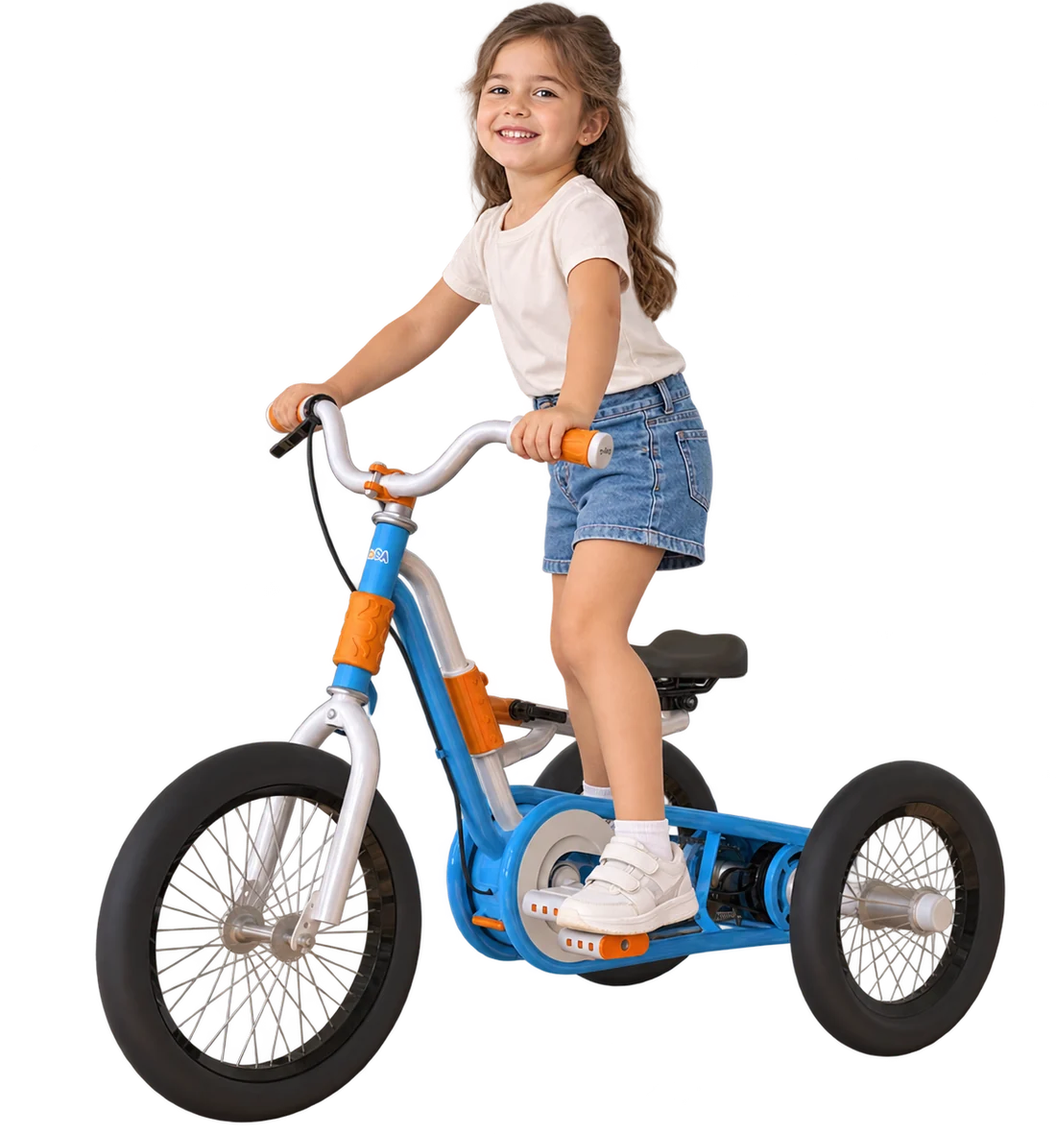
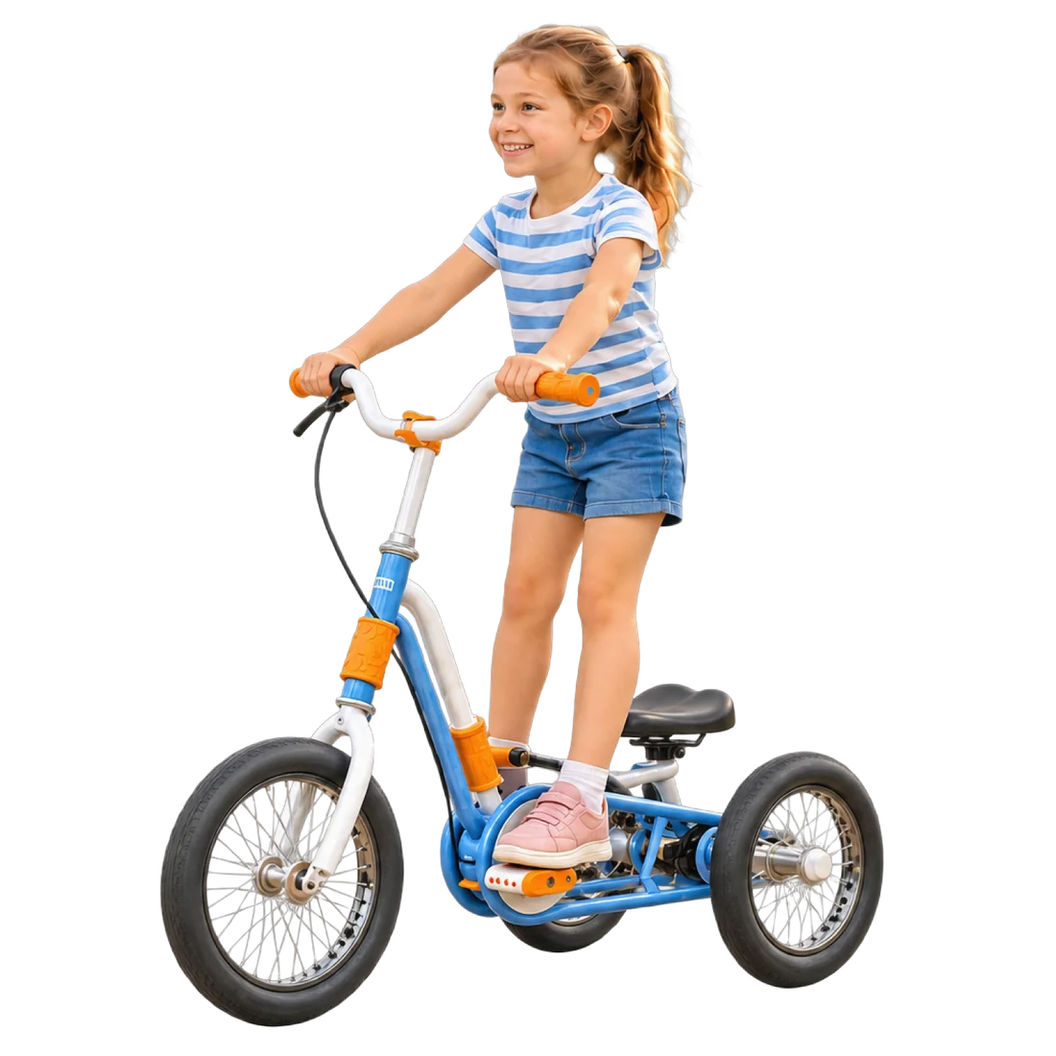
Anexo actualizado: requisitos completos sin estado, proceso por focos, modificaciones completas, sin estabilidad lateral, fotos nuevas
Claude-Session: https://claude.ai/code/session_01XYGLUT23MzxbAn7Qjmz7rA

diff --git a/index.html b/index.html
@@ -100,7 +100,6 @@ header.top{position:sticky;top:0;z-index:20;background:rgba(255,254,248,.92);bac
 .hero-r img{position:absolute;inset:0;width:100%;height:100%;object-fit:contain;filter:drop-shadow(0 14px 18px rgba(75,99,150,.18));opacity:0;transform:scale(.97);transition:opacity .7s,transform .9s cubic-bezier(.6,.05,.3,1);cursor:zoom-in}
 .hero-r img.on{opacity:1;transform:none}
 .hero-r img[data-hm="plegado"]{padding:12% 6%}
-.hero-r img[data-hm="sentado"]{-webkit-mask-image:linear-gradient(90deg,#000 88%,transparent);mask-image:linear-gradient(90deg,#000 88%,transparent)}
 .gal .big img{height:100%;object-fit:cover}
 .vid{position:relative;aspect-ratio:16/9;border-radius:var(--r);overflow:hidden;background:var(--ink);box-shadow:0 10px 30px rgba(75,99,150,.18)}
 .vid iframe{position:absolute;inset:0;width:100%;height:100%;border:0}
@@ -167,10 +166,10 @@ details.acc[open] summary::after{transform:rotate(45deg)}
 details.acc .in{padding:0 0 18px;font-size:15px}
 
 /* Línea de tiempo */
-.tl{display:grid;grid-template-columns:repeat(7,1fr);gap:8px;position:relative}
+.tl{display:grid;grid-template-columns:repeat(8,1fr);gap:8px;position:relative}
 .tl button{border:0;background:#fff;border:1px solid var(--blue-l);border-radius:12px;padding:10px 6px;font-size:13px;color:var(--grey);font-weight:500;transition:all .25s}
 .tl button[aria-pressed="true"]{background:var(--blue);color:#fff;border-color:var(--blue);transform:translateY(-3px)}
-.tlbox{margin-top:14px;min-height:110px}
+.tlbox{margin-top:14px;min-height:150px}
 
 /* Hotspots */
 .hot{position:relative;overflow:hidden;border-radius:var(--r);background:#81b6e0}
@@ -210,6 +209,17 @@ details.acc .in{padding:0 0 18px;font-size:15px}
 .filters{display:flex;gap:8px;flex-wrap:wrap;margin:16px 0}
 .filters button{border:0;border-radius:999px;padding:8px 14px;font-size:13px;font-weight:600;background:var(--tint);color:var(--blue);transition:all .2s}
 .filters button[aria-pressed="true"]{background:var(--blue);color:#fff}
+.reqtools{display:flex;gap:14px;align-items:center;flex-wrap:wrap;margin:18px 0 14px}
+.reqtools input{flex:1;min-width:240px;border:1px solid var(--blue-l);border-radius:999px;padding:10px 18px;font:inherit;font-size:14px;background:#fff;color:var(--ink)}
+.reqtools input:focus{outline:2px solid var(--blue-m);outline-offset:1px}
+.reqgrid{columns:3 300px;column-gap:14px}
+.rq{break-inside:avoid;background:#fff;border:1px solid var(--blue-l);border-radius:var(--r);padding:14px 16px;margin-bottom:14px;animation:enter .35s}
+.rqh{display:flex;gap:10px;align-items:center;margin-bottom:8px}
+.rqh span{display:grid;place-items:center;min-width:28px;height:28px;border-radius:50%;background:var(--blue);color:#fff;font-size:12px;font-weight:600}
+.rqh b{color:var(--blue);font-weight:600}
+.rq ul{list-style:none;margin:0;padding:0;display:grid;gap:8px}
+.rq li{display:grid;grid-template-columns:38px 1fr;gap:6px;font-size:13.5px;line-height:1.5;color:var(--ink)}
+.rq li b{color:var(--yel-d);font-weight:600}
 .req{display:grid;grid-template-columns:76px 1fr 1.3fr 110px;gap:12px;padding:12px 16px;border-top:1px solid #e6ebf7;font-size:14px;align-items:start;background:#fff;animation:enter .35s}
 .reqh{background:var(--blue);color:#fff;font-weight:500;font-size:13px;border-top:0}
 .req b{color:var(--blue);font-weight:600}
@@ -447,13 +457,11 @@ footer a{color:var(--yel-l)}
   
   <div class="sec reveal">
     <div class="eyebrow">Programa de requisitos</div>
-    <h2>24 requisitos y su estado de cumplimiento</h2>
-    <p class="lead">Cada requisito del programa se vincula con la solución de diseño que lo resuelve y con su estado actual.</p>
-    <div class="filters" id="req-f" role="group" aria-label="Filtrar requisitos"></div>
-    <div style="border-radius:var(--r);overflow:hidden;border:1px solid var(--blue-l)">
-      <div class="req reqh"><span>Req.</span><span>Requisito</span><span class="sol">Solución de diseño</span><span>Estado</span></div>
-      <div id="req"></div>
-    </div>
+    <h2>El programa completo: 60 requisitos en 24 categorías</h2>
+    <p class="lead">Los requisitos que definimos a partir de la investigación y que guiaron todas las decisiones del proyecto.</p>
+    <div class="reqtools"><input id="req-q" type="search" placeholder="Buscar un requisito… (ej.: peso, plegado, seguridad)" aria-label="Buscar requisito"><span id="req-n" class="note" style="margin:0"></span></div>
+    <div class="reqgrid" id="req"></div>
+    <div class="card y" style="margin-top:18px"><h4>Conclusión del programa</h4><p>A través de los requisitos establecidos, hemos blindado el proyecto contra la obsolescencia temprana, garantizando una vida útil extendida que contempla la transferencia entre hermanos y la adaptabilidad a hitos psicomotrices clave entre los 3 y 6 años. El recorte propuesto prioriza la autonomía del niño mediante el desafío del equilibrio dinámico, pero sin descuidar la necesidad del adulto por soluciones de estiba compacta, ligereza y maniobrabilidad en contextos utilitarios como los "mandados" o el traslado escolar.</p></div>
   </div>
 </section>
 
@@ -462,12 +470,12 @@ footer a{color:var(--yel-l)}
   <div class="sec">
     <div class="eyebrow">Generación de alternativas</div>
     <h2>Del pata-pata transformable a un vehículo de dos instancias</h2>
-    <p class="lead">Según la teoría del apego, los adultos funcionan como una base segura desde la cual el niño explora, enfrenta nuevos desafíos y desarrolla su autonomía. Esa idea guió la exploración clase a clase.</p>
+    <p class="lead">Según la teoría del apego, los adultos funcionan como una base segura desde la cual el niño explora, enfrenta nuevos desafíos y desarrolla su autonomía. Esa idea guió toda la exploración, organizada según los focos de interés que fuimos abordando.</p>
   </div>
 <div class="sec reveal">
-    <div class="eyebrow">Clase a clase</div>
+    <div class="eyebrow">Focos de interés</div>
     <h2>De los primeros bocetos al producto definido</h2>
-    <div class="tl" style="margin-top:24px" id="tl" role="group" aria-label="Clases del proceso"></div>
+    <div class="tl" style="margin-top:24px" id="tl" role="group" aria-label="Focos del proceso"></div>
     <div class="card tlbox" id="tl-box" aria-live="polite"></div>
     <div class="grid g2" style="margin-top:16px">
       <div class="media" data-slot="bocetos"><div><b>Bocetos y maquetas de estudio</b><span>Espacio reservado para imágenes del proceso</span></div></div>
@@ -506,12 +514,14 @@ footer a{color:var(--yel-l)}
   <div class="sec reveal">
     <div class="eyebrow">Modificaciones</div>
     <h2>Qué cambió después del receso invernal</h2>
-    <details class="acc" open><summary>Sección de los caños estructurales</summary><div class="in">La sección planteada no se conseguía y fabricarla encarecía el proyecto. La ovalada estaba disponible solo en China. Se eligió caño de sección circular, disponible en Argentina, ajustando las dimensiones sin cambiar la macroforma.</div></details>
-    <details class="acc"><summary>Interferencia con la corona</summary><div class="in">La nueva sección redujo el espacio de la transmisión. Una corona más chica obligaba a pedalear más, así que se amplió y reajustó la estructura alrededor de la corona.</div></details>
-    <details class="acc"><summary>Mantenimiento de la transmisión</summary><div class="in">Una pieza metálica soldada delimita la zona y una cubierta plástica con trabas se retira para acceder a la cadena sin desmontar otras partes.</div></details>
-    <details class="acc"><summary>Unión entre perfiles principales</summary><div class="in">La geometría inicial requería varios moldes. Se pasó a caños soldados con piezas que alojan los rodamientos, reduciendo moldes y costos.</div></details>
-    <details class="acc"><summary>Refuerzo del asiento</summary><div class="in">Todo el peso del niño recaía sobre una bisagra. Se sumó un refuerzo curvo que reparte las cargas y se integra al lenguaje formal del producto.</div></details>
-    <details class="acc"><summary>Pedales y ruedas</summary><div class="in">Los pedales extensibles suman un sistema de regulación y traba. Las ruedas pasaron de rodados 10 y 14 a tres rodados 12, más fáciles de conseguir.</div></details>
+    <p class="lead">A la vuelta del receso se profundizó el diseño y se hicieron modificaciones a partir de las correcciones, la investigación y las pruebas, para llegar a una propuesta más definida y viable de materializar.</p>
+    <details class="acc" open><summary>Sección de los caños estructurales</summary><div class="in"><p>Investigamos los caños estructurales estandarizados disponibles en el mercado. La sección planteada originalmente no se conseguía y desarrollar un caño propio implicaba un incremento considerable en los costos, por lo que descartamos esa alternativa.</p><p style="margin-top:8px">Evaluamos una sección ovalada, que mantenía la macroforma y las características estructurales, pero solo se conseguía en China, con mayores costos de producción y logística. Finalmente encontramos caños de sección circular que cumplen los requerimientos estructurales y se consiguen en Argentina.</p><p style="margin-top:8px">La nueva sección implicó ajustar las dimensiones de las piezas sin modificar significativamente la macroforma de la propuesta.</p></div></details>
+    <details class="acc"><summary>Interferencia con la corona</summary><div class="in"><p>La nueva sección de los caños redujo el espacio disponible para la transmisión. Usar una corona más chica modificaba la relación de transmisión y obligaba al niño a pedalear más, así que lo descartamos.</p><p style="margin-top:8px">Decidimos ampliar la estructura y reajustar su geometría alrededor de la corona, manteniendo el sistema de transmisión planteado.</p></div></details>
+    <details class="acc"><summary>Mantenimiento de la transmisión</summary><div class="in"><p>Aprovechamos el cambio para facilitar el acceso a la transmisión. Incorporamos un sistema de dos piezas: una pieza metálica soldada a la estructura inferior que delimita el área de la transmisión, y una cubierta exterior de plástico que se fija con trabas y se retira para hacer mantenimiento.</p></div></details>
+    <details class="acc"><summary>Unión entre perfiles principales</summary><div class="in"><p>La geometría inicial de la unión entre los perfiles era compleja y requería varios moldes, con un incremento considerable en los costos. Estudiamos alternativas y referentes del mercado.</p><p style="margin-top:8px">Avanzamos con caños soldados que incorporan las piezas que alojan los rodamientos: se simplifica la unión, se reducen los moldes y la producción resulta más viable.</p></div></details>
+    <details class="acc"><summary>Asiento</summary><div class="in"><p>La configuración anterior generaba un efecto de pieza flotante atractivo, pero todo el peso del niño recaía sobre una única bisagra.</p><p style="margin-top:8px">Incorporamos una estructura de refuerzo que reparte las tensiones. El desafío fue integrarla a la geometría curva del cuadro: el refuerzo pasó a formar parte del lenguaje formal del producto en lugar de verse como un agregado.</p></div></details>
+    <details class="acc"><summary>Pedales</summary><div class="in"><p>Los pedales extensibles estaban contemplados desde el inicio, pero faltaba resolver cómo regular y asegurar su posición. Se incorporó un sistema de regulación y traba que permite extenderlos y fijarlos en distintas posiciones según el tamaño del pie, evitando desplazamientos durante el uso.</p></div></details>
+    <details class="acc"><summary>Ruedas</summary><div class="in"><p>La propuesta inicial tenía dos ruedas traseras rodado 10 y una delantera rodado 14, medidas difíciles de conseguir. Se pasó a tres ruedas rodado 12, una proporción intermedia que evita cambios significativos en el resto del producto.</p><p style="margin-top:8px">Se ajustaron geometría y proporciones para conservar las condiciones ergonómicas: el alcance del niño a los puntos de apoyo, agarre y contacto se mantiene.</p></div></details>
   </div>
 </section>
 
@@ -593,10 +603,10 @@ footer a{color:var(--yel-l)}
   <div class="sec">
     <div class="eyebrow">Tecnología</div>
     <h2>De una tecnología simple a un producto resistente y escalable</h2>
-    <p class="lead">La estructura se resuelve con caños cilíndricos de aluminio plegados y soldados, un proceso accesible y replicable que no depende de una infraestructura compleja.</p>
+    <p class="lead">La estructura se resuelve con caños cilíndricos de aluminio curvados y soldados, un proceso accesible y replicable que no depende de una infraestructura compleja.</p>
     <div class="grid g4 num" style="margin-top:24px">
       <div class="card"><h4>Aluminio 6061-T6</h4><p>Límite elástico 276 MPa · resistencia 310 MPa · densidad 2,70 g/cm³</p></div>
-      <div class="card"><h4>Plegado de caño</h4><p>Una pieza continua define la geometría con menos cortes y uniones.</p></div>
+      <div class="card"><h4>Curvado de caños</h4><p>Varios tramos del cuadro en una sola pieza, con dispositivos de curvado propios y menos uniones.</p></div>
       <div class="card"><h4>Soldadura TIG</h4><p>Uniones precisas y resistentes con mínima deformación térmica.</p></div>
       <div class="card"><h4>Pintura en polvo</h4><p>Recubrimiento uniforme, resistente al desgaste y a la intemperie.</p></div>
     </div>
@@ -666,31 +676,6 @@ footer a{color:var(--yel-l)}
     <div class="eyebrow">Ficha técnica</div>
     <h2>El producto en números</h2>
     <div class="tbl" style="margin-top:20px"><table><tbody class="num" id="spec"></tbody></table></div>
-  </div>
-  <div class="sec reveal">
-    <div class="eyebrow">Estabilidad lateral</div>
-    <h2>Simulá el ancho y mirá el ángulo de vuelco</h2>
-    <div class="grid g2" style="margin-top:20px;align-items:center">
-      <div class="card w">
-        <label for="w" style="font-weight:500;color:var(--blue)">Ancho total: <span id="w-v" class="num">410 mm</span></label>
-        <input id="w" class="range" type="range" min="360" max="550" step="10" value="410">
-        <div class="meas num" style="margin-top:14px">
-          <div><small>Ángulo crítico ≈</small><b id="w-a"></b></div>
-          <div><small>Aceleración lateral ≈</small><b id="w-g"></b></div>
-          <div><small>Radio mínimo a 7 km/h ≈</small><b id="w-r"></b></div>
-        </div>
-        <p class="note">Modelo estático simplificado: entre ejes ≈ 655 mm, centro de gravedad del conjunto niño + vehículo a ≈ 435 mm de altura y 200 mm delante del eje trasero. El límite del requisito 11.3 es 550 mm.</p>
-      </div>
-      <svg viewBox="0 0 300 220" role="img" aria-label="Esquema del ángulo de vuelco">
-        <line x1="20" y1="190" x2="280" y2="190" stroke="#c9d6f5" stroke-width="3"/>
-        <g id="tilt" style="transition:transform .5s;transform-origin:150px 190px">
-          <rect id="tilt-base" x="90" y="170" width="120" height="14" rx="7" fill="#88a1de"/>
-          <line x1="150" y1="184" x2="150" y2="60" stroke="#4b6396" stroke-width="3" stroke-dasharray="6 5"/>
-          <circle cx="150" cy="60" r="12" fill="#eea72d"/>
-          <text x="166" y="64" font-size="12" fill="#a96d0c">CG</text>
-        </g>
-      </svg>
-    </div>
   </div>
 </section>
 
@@ -906,10 +891,10 @@ function selHS(i,zoom){ if(zoom) hotZoom(i); $$('.hs').forEach((b,j)=>b.classLis
 selHS(0);
 
 /* ---------- Línea de tiempo ---------- */
-const TL=[['Clase 1','Primeros bocetos y conceptos','Exploramos posibilidades de producto, formas de uso y vínculos con el crecimiento del niño.'],['Clase 2','Transformación del producto','Propuestas con mecanismos más complejos; muchas requerían un adulto y limitaban la autonomía del niño.'],['Clase 3','Nuevas modalidades de transporte','Dejamos la idea de transformar un pata-pata en monopatín y abrimos la búsqueda a nuevas tipologías.'],['Clase 4','Dos instancias de uso','Una instancia sentado, similar a un triciclo, y otra parado, cercana a una half bike.'],['Clase 5','Exploración de materialidades','Alternativas en plástico, chapa y madera para evaluar forma, estructura, peso y transformación.'],['Clase 6','Preentrega','Solución ergonómica, adaptable y progresiva; definición estética.'],['Clase 7','Detalles constructivos','Definición de componentes, encuentros y detalles, con mayor coherencia entre concepto y resolución técnica.']];
+const TL=[["Concepto", "Primeros bocetos y conceptos", "A partir de la investigación inicial, comenzamos a desarrollar los primeros bocetos y conceptos. En esta instancia exploramos distintas posibilidades de producto, formas de uso y vínculos con el crecimiento del niño.", []], ["Transformación", "Transformación del producto", "Continuamos explorando alternativas centradas en la transformación del vehículo según la edad del usuario. Aparecieron propuestas con mecanismos más complejos, pero detectamos que muchas requerían la intervención de un adulto, lo que limitaba la autonomía del niño.", ["Fácil transporte", "Adaptabilidad del manubrio"]], ["Tipologías", "Nuevas modalidades de transporte", "Decidimos alejarnos de la idea inicial de transformar un pata-pata en monopatín para abrir la búsqueda a nuevas tipologías. Cada propuesta exploró una modalidad de transporte diferente, manteniendo como eje la adaptación al crecimiento.", ["Equilibrio", "Divertido"]], ["Modos de uso", "Definición de dos instancias de uso", "Identificamos una dirección común: un producto con dos modos principales. Primero, una instancia sentado, similar a un triciclo, para trabajar estabilidad y equilibrio inicial. Luego, una instancia parado, cercana a una half bike, para desarrollar coordinación, postura y control corporal.", ["No varía en forma, solo se extienden las piezas", "Cambio fácil"]], ["Materialidad", "Exploración de materialidades", "Desarrollamos alternativas en distintas materialidades: plástico, metal/chapa y madera. Esta instancia nos permitió evaluar cómo cada material podía modificar la forma, la estructura, el peso y la manera de resolver la transformación del producto.", ["Madera", "Plástico", "Chapa"]], ["Ergonomía", "Solución ergonómica, adaptable y progresiva", "En la preentrega consolidamos una solución ergonómica, adaptable y progresiva, trabajando en paralelo la estética, la adaptabilidad al crecimiento y el traslado del producto.", ["Estética", "Adaptabilidad", "Traslado"]], ["Forma", "Reconfiguración formal", "Se revisó la geometría general del vehículo con el objetivo de transmitir una mayor sensación de ligereza. A través de una simplificación de los volúmenes y una mejor distribución de las masas visuales, se obtuvo una propuesta más dinámica y acorde al universo infantil, sin comprometer la estabilidad estructural.", ["Unificación morfológica", "Agarre y traslado"]], ["Estructura", "Optimización estructural", "Se avanzó en la definición de componentes, encuentros y detalles constructivos, buscando una mayor coherencia entre la propuesta conceptual y su resolución técnica. En esta etapa se estudió el hidroformado de tubos de aluminio, que permite geometrías complejas con menos uniones y una muy buena relación entre rigidez y peso.", ["Componentes", "Encuentros", "Detalles constructivos"]]];
 const tl=$('#tl');
 TL.forEach((t,i)=>{const b=document.createElement('button'); b.textContent=t[0]; b.setAttribute('aria-pressed',i===0); b.addEventListener('click',()=>selTL(i)); tl.appendChild(b);});
-function selTL(i){ $$('#tl button').forEach((b,j)=>b.setAttribute('aria-pressed',j===i)); $('#tl-box').innerHTML=`<h4>${TL[i][1]}</h4><p>${TL[i][2]}</p>`; $('#tl-box').animate([{opacity:.3,transform:'translateY(6px)'},{opacity:1,transform:'none'}],{duration:300}); }
+function selTL(i){ $$('#tl button').forEach((b,j)=>b.setAttribute('aria-pressed',j===i)); $('#tl-box').innerHTML=`<span class="chip y">${TL[i][0]}</span><h4 style="margin-top:10px">${TL[i][1]}</h4><p>${TL[i][2]}</p>${TL[i][3].length?`<div style="display:flex;gap:6px;flex-wrap:wrap;margin-top:10px">${TL[i][3].map(k=>`<span class="chip">${k}</span>`).join('')}</div>`:''}`; $('#tl-box').animate([{opacity:.3,transform:'translateY(6px)'},{opacity:1,transform:'none'}],{duration:300}); }
 selTL(0);
 
 /* ---------- Paleta ---------- */
@@ -918,7 +903,7 @@ $('#sw').innerHTML=SW.map(s=>`<button style="background:${s[0]};color:${s[2]}" d
 $$('#sw button').forEach(b=>b.addEventListener('click',async()=>{try{await navigator.clipboard.writeText(b.dataset.hex); toast('Copiado '+b.dataset.hex);}catch(e){toast(b.dataset.hex);}}));
 
 /* ---------- Proceso ---------- */
-const ST=[['ct','Recepción de caños y control dimensional',null,'Se verifica diámetro, espesor y aleación de cada lote antes de entrar a la línea.'],['op','Corte y perforado de caños','Dispositivo de corte y curvado','Una cinta lleva el caño a la zona de trabajo, donde se fija y se corta y perfora con medidas repetibles.'],['op','Plegado de caños con matriz',null,'Las matrices definen la geometría del cuadro a partir de una pieza continua.'],['op','Mecanizado de radios en los extremos','Dispositivo de radios','Una lijadora genera el radio del extremo del caño para aumentar la superficie de contacto en la unión.'],['op','Posicionado y soldadura TIG del cuadro','Dispositivo de posicionamiento y soldadura','Una plantilla fija la ubicación y orientación de cada caño durante la soldadura.'],['ct','Control de geometría del cuadro',null,'Se verifican ángulos y distancias críticas antes de la terminación.'],['op','Tratamiento térmico posterior a la soldadura',null,'Recomendado para recuperar la resistencia del aluminio junto a los cordones.'],['op','Desbaste, pintura en polvo y curado',null,'Se pulen los cordones y se aplica la pintura electrostática con los colores de la marca.'],['op','Armado del conjunto manubrio','Dispositivo de armado del manubrio','Asegura la alineación entre eje, vástago y tubo del manubrio.'],['op','Ensamble final','Dispositivo de soporte para el ensamble','Mantiene los componentes posicionados mientras se montan ruedas, transmisión y piezas comerciales.'],['ct','Control final',null,'Trabas, frenos, transmisión y plegado.'],['al','Embalaje semi-montado y almacenamiento',null,'Caja individual de cartón corrugado, apilable.']];
+const ST=[['ct','Recepción de caños y control dimensional',null,'Se verifica diámetro, espesor y aleación de cada lote antes de entrar a la línea.'],['op','Corte y perforado de caños','Dispositivo de corte y curvado','Una cinta lleva el caño a la zona de trabajo, donde se fija y se corta y perfora con medidas repetibles.'],['op','Curvado de caños',null,'Se definen inicio, radio y ángulo de cada curva; se controla que no haya pliegues y que la sección quede dentro de tolerancia.'],['op','Mecanizado de radios en los extremos','Dispositivo de radios','Una lijadora genera el radio del extremo del caño para aumentar la superficie de contacto en la unión.'],['op','Posicionado y soldadura TIG del cuadro','Dispositivo de posicionamiento y soldadura','Una plantilla fija la ubicación y orientación de cada caño durante la soldadura.'],['ct','Control de geometría del cuadro',null,'Se verifican ángulos y distancias críticas antes de la terminación.'],['op','Tratamiento térmico posterior a la soldadura',null,'Recomendado para recuperar la resistencia del aluminio junto a los cordones.'],['op','Desbaste, pintura en polvo y curado',null,'Se pulen los cordones y se aplica la pintura electrostática con los colores de la marca.'],['op','Armado del conjunto manubrio','Dispositivo de armado del manubrio','Asegura la alineación entre eje, vástago y tubo del manubrio.'],['op','Ensamble final','Dispositivo de soporte para el ensamble','Mantiene los componentes posicionados mientras se montan ruedas, transmisión y piezas comerciales.'],['ct','Control final',null,'Trabas, frenos, transmisión y plegado.'],['al','Embalaje semi-montado y almacenamiento',null,'Caja individual de cartón corrugado, apilable.']];
 $('#steps').innerHTML=ST.map((s,i)=>`<button class="step" data-i="${i}"><span class="n num">${String(i+1).padStart(2,'0')}</span><span><span class="sym ${s[0]}"></span>${s[1]}</span>${s[2]?'<span class="chip yl">Dispositivo</span>':'<span></span>'}</button>`).join('');
 function selST(i){ $$('.step').forEach((b,j)=>b.classList.toggle('act',j===i)); const s=ST[i]; $('#step-tip').innerHTML=`<span class="chip y">Paso ${i+1} de 12</span><h4 style="margin-top:10px">${s[1]}</h4><p>${s[3]}</p>${s[2]?`<p style="margin-top:8px;font-weight:600;color:var(--yel-d)">${s[2]}</p>`:''}`; }
 $$('.step').forEach(b=>b.addEventListener('click',()=>selST(+b.dataset.i))); selST(1);
@@ -936,22 +921,18 @@ function selCO(i){ const c=CO[i]; $$('#cost button').forEach((b,j)=>b.style.filt
 $$('#cost button').forEach(b=>{b.addEventListener('mouseenter',()=>selCO(+b.dataset.i)); b.addEventListener('click',()=>selCO(+b.dataset.i)); b.addEventListener('focus',()=>selCO(+b.dataset.i));}); selCO(0);
 
 /* ---------- Requisitos ---------- */
-const M=[['1.1','Ergonomía para niños de 3 a 6 años','Asiento en riel, manubrio regulable y pedales extensibles.','V'],['1.2','Transición de equilibrio asistido a autónomo','Modo sentado de tres ruedas y modo de pie.','R'],['1.3','Reconfiguración en menos de 2 minutos','Bisagra con traba y tuerca de ajuste del manubrio.','V'],['1.4','Absorber impactos del suelo','Ruedas rodado 12; falta definir neumático o rueda maciza.','P'],['2.1 / 2.4','Uso en pasto, arena y asfalto','Ruedas con banda de rodamiento para exterior.','V'],['2.2 / 14.2','Resistencia a intemperie y rayos UV','Aluminio con pintura en polvo; polímeros con aditivo UV.','R'],['3.1','Vida útil mínima de 4 años','Cuadro de aluminio soldado TIG y componentes estándar.','V'],['3.2 / 3.3','Piezas de desgaste reemplazables','Asiento, puños, ruedas y cubierta desmontables.','R'],['4.2','Ajustes sin herramientas','Trabas rápidas en asiento, manubrio y pedales.','R'],['4.3','Desarme rápido de ruedas y ejes','Acceso a la transmisión por cubierta; falta el cierre de ejes.','P'],['7.2 / 7.3','Entrar plegado en baúl y ascensor','Plegado: 610 × 688 × 410 mm.','R'],['9.2','Montaje sin errores','Código de color en las piezas de ensamble.','V'],['11.1','Longitud máxima de 1,10 m','965 mm desplegado.','R'],['11.3','Ancho máximo de 55 cm','410 mm.','R'],['12.1','Peso máximo de 10 kg','Estimado ≈ 8,1 a 9,9 kg; margen reducido.','V'],['12.2','Peso concentrado en la base','Transmisión y uniones en la parte baja.','R'],['13.3','Paleta sin estereotipos de género','Azul y naranja con neutros.','R'],['14.1','Materiales reciclables','Aluminio 6061 y termoplásticos identificados.','R'],['14.3','Plásticos libres de ftalatos y BPA','Certificado del proveedor de resinas.','V'],['16.2','Carga estática del doble del peso a los 6 años','Ensayo propuesto con 45 kg.','V'],['17.1','Sin cantos ni zonas de atrapamiento','Cubierta de transmisión; revisar bisagra y riel.','V'],['17.3','Marcas de ajuste por etapa','El prototipo todavía no tiene marcas de altura.','P'],['19.2','Que los mecanismos no se abran durante el uso','La bisagra traba con un clic; verificar que el chico no pueda abrirla.','V'],['22.3','Elementos reflectivos','Reflector trasero en el asiento.','R']];
-const SL={R:['Resuelto','chip b'],V:['A verificar','chip'],P:['Pendiente','chip y']};
-const cn=k=>M.filter(m=>m[3]===k).length;
-$('#req-f').innerHTML=[['all','Todos',M.length],['R','Resueltos',cn('R')],['V','A verificar',cn('V')],['P','Pendientes',cn('P')]].map((f,i)=>`<button aria-pressed="${i===0}" data-f="${f[0]}">${f[1]} · <span class="num">${f[2]}</span></button>`).join('');
-function req(f){ $('#req').innerHTML=M.filter(m=>f==='all'||m[3]===f).map(m=>`<div class="req"><b class="num">${m[0]}</b><span>${m[1]}</span><span class="sol" style="color:var(--grey)">${m[2]}</span><span><span class="${SL[m[3]][1]}">${SL[m[3]][0]}</span></span></div>`).join(''); }
-$$('#req-f button').forEach(b=>b.addEventListener('click',()=>{ $$('#req-f button').forEach(x=>x.setAttribute('aria-pressed',x===b)); req(b.dataset.f); })); req('all');
+const RQ=[[1, "Rendimiento", [["1.1", "El producto debe ser ergonómico para niños de 3 a 6 años."], ["1.2", "Debe permitir la transición de equilibrio asistido a equilibrio autónomo."], ["1.3", "El sistema de reconfiguración debe ser operable por un adulto en menos de 2 minutos."], ["1.4", "El sistema de dirección y rodado debe absorber impactos de irregularidades del suelo (baches) sin transmitir vibraciones excesivas al usuario, respondiendo a la preocupación del 60% de los padres por la estabilidad física."]]], [2, "Entorno", [["2.1", "Uso prioritario en parques y plazas con superficies mixtas (pasto, arena, asfalto)."], ["2.2", "Resistente a la intemperie (rayos UV y humedad) para guardado en patios."], ["2.3", "Los materiales deben ser lavables para eliminar suciedad de entornos exteriores."], ["2.4", "El diseño de las ruedas debe asegurar tracción y maniobrabilidad tanto en superficies lisas de hogar/patio como en terrenos irregulares de parques."]]], [3, "Tiempo de vida", [["3.1", "Vida útil mínima de 4 años para cubrir el rango etario completo del usuario."], ["3.2", "El diseño debe evitar la obsolescencia técnica mediante piezas de desgaste reemplazables."], ["3.3", "El diseño debe permitir el reemplazo independiente de piezas de contacto (asientos, manillares) para facilitar que el producto pase de un hermano a otro en condiciones higiénicas y estéticas óptimas."]]], [4, "Mantenimiento", [["4.1", "Tornillería bajo normas IRAM para facilitar el service local."], ["4.2", "Ajustes de altura y configuración sin necesidad de herramientas externas (mecanismos quick-release)."], ["4.3", "El sistema de limpieza debe permitir el desarme rápido de ruedas y ejes para eliminar obstrucciones (pelos, tierra o fibras) sin necesidad de asistencia técnica especializada."]]], [5, "Precio estimado", [["5.1", "Producto de gama media-alta, justificando el costo por su multifuncionalidad (reemplaza 2 o 3 productos)."], ["5.2", "El precio de venta debe ser competitivo para padres de 35 a 45 años con poder adquisitivo estable."], ["5.3", "El diseño y la calidad de materiales deben proyectar un alto valor de recuperación en el mercado de usados, atrayendo al consumidor que busca inversiones duraderas en un contexto urbano dinámico."]]], [6, "Competencia", [["6.1", "Marcas internacionales de triciclos para infancias."], ["6.2", "Rodados nacionales tradicionales (triciclos estáticos de baja durabilidad)."]]], [7, "Embalaje", [["7.1", "El packaging debe ser compacto para optimizar el transporte logístico."], ["7.2", "El producto plegado debe caber en baúles de autos compactos urbanos."], ["7.3", "El producto plegado debe caber en ascensores estandar de edificios."]]], [8, "Envío/Transporte", [["8.1", "Distribución regional en Argentina vía transporte terrestre."], ["8.2", "Dimensiones de caja estandarizadas para pallets industriales."]]], [9, "Instalación", [["9.1", "El producto se entrega semi-montado para optimizar el embalaje, requiriendo un ensamblaje final intuitivo que no comprometa la seguridad estructural."], ["9.2", "Las piezas de ensamblaje deben tener códigos de color o formas que impidan el montaje erróneo, asegurando la integridad estructural del vehículo antes del primer uso por parte del niño."]]], [10, "Instalaciones de fabricación", [["10.1", "Producción optimizada para procesos de inyección de polímeros y conformado de tubos metálicos."], ["10.2", "El diseño de moldes debe permitir la producción de componentes en diferentes colores sin detener la línea, permitiendo personalización con bajo costo operativo."]]], [11, "Tamaño", [["11.1", "La longitud máxima configurada no debe exceder los 1,10 m para garantizar maniobrabilidad infantil."], ["11.2", "El ancho de manubrio debe ajustarse a los percentiles de hombros para niños de 3 a 6 años."], ["11.3", "El ancho total del vehículo no debe superar los 55 cm para permitir el paso fluido por puertas estándar y pasillos de departamentos, facilitando el uso en el hogar/patio."]]], [12, "Peso", [["12.1", "El peso total no debe superar los 10 kg para facilitar el acarreo por parte del adulto."], ["12.2", "El peso debe estar distribuido mayoritariamente en la base del producto para aumentar la estabilidad ante el desafío físico del equilibrio dinámico que busca el niño."]]], [13, "Estética", [["13.1", "Lenguaje formal dinámico que proyecte una imagen de solidez y seguridad ante el usuario."], ["13.2", "Uso de texturas antideslizantes en puntos de contacto para reforzar la percepción de control."], ["13.3", "La paleta cromática y morfológica debe evitar estereotipos de género para maximizar la transferencia entre hermanos de distinto sexo, extendiendo la utilidad social del objeto."]]], [14, "Materiales", [["14.1", "Uso de materiales reciclables (polímeros de alta densidad) para alinearse con el enfoque socio-ambiental."], ["14.2", "Resistencia a la degradación por rayos UV y agentes climáticos externos."], ["14.3", "Todos los componentes plásticos deben estar libres de ftalatos y BPA, cumpliendo con las exigencias de salud para el contacto directo y prolongado con la piel del niño."]]], [15, "Alcance de la vida del producto", [["15.1", "Diseñado para ser transferible entre hermanos (69% de los hogares tienen +1 hijo), extendiendo su ciclo de vida."], ["15.2", "Posibilidad de añadir accesorios de carga o interfaces de juego simbólico que mantengan el interés del niño mientras crece de los 3 a los 6 años."]]], [16, "Estándares/Especificaciones", [["16.1", "Cumplimiento estricto de normas IRAM y estándares internacionales de seguridad para juguetes y rodados infantiles."], ["16.2", "El producto debe estar certificado para soportar una carga estática de hasta el doble del peso promedio de un niño de 6 años para garantizar seguridad ante usos imprevistos (juego de a dos)."]]], [17, "Ergonomía", [["17.1", "Ausencia total de cantos agudos o zonas de atrapamiento para proteger al niño en los casos de juego autónomo."], ["17.2", "Interfaz de ajuste de altura intuitiva para que el adulto la opere sin esfuerzo."], ["17.3", "La altura del manillar y el asiento deben tener marcas de ajuste claras que correspondan a los hitos del desarrollo psicomotriz global (Pikler), guiando al padre en la evolución del producto."]]], [18, "Usuario", [["18.1", "Usuario principal: Niño/a de 3 a 6 años en etapa de desarrollo de motricidad global."], ["18.2", "El diseño debe contemplar ajustes mínimos que permitan el uso por niños con diversidades motrices leves, reforzando el eje de inclusión física y social del proyecto."]]], [19, "Calidad y fiabilidad", [["19.1", "El diseño debe garantizar estabilidad ante baches o subidas, respondiendo a la inquietud del 60% de los padres."], ["19.2", "Los mecanismos de reconfiguración deben poseer bloqueos de seguridad que impidan el colapso del vehículo si el niño intenta accionarlos durante el uso."]]], [20, "Tiempo de almacenamiento", [["20.1", "El producto se almacenará en cajas individuales de cartón corrugado, apilables."], ["20.2", "Al ser un producto de polímeros y metales, no tiene fecha de caducidad, permitiendo stock prolongado sin degradación."]]], [21, "Procesos", [["21.1", "Ensamble final diseñado para ser realizado por el usuario, reduciendo el volumen de empaque y optimizando la estiba."]]], [22, "Seguridad", [["22.1", "Cumplimiento con la normativa IRAM para juguetes y rodados infantiles (estabilidad y no toxicidad)."], ["22.2", "Inclusión de manual de instrucciones gráfico de alta legibilidad para el consumidor (35-45 años)."], ["22.3", "Integración de elementos reflectivos o colores de alta visibilidad para aumentar la seguridad del niño durante el traslado escolar o mandados en la vía pública."]]], [23, "Restricciones empresariales", [["23.1", "El proyecto requiere una inversión inicial en moldes de inyección; la rentabilidad se basa en la durabilidad del producto."], ["23.2", "El producto debe funcionar como un \"embajador de marca\" en los parques, utilizando un lenguaje de diseño distintivo que sea fácilmente reconocible por otros potenciales consumidores del mismo rango etario."]]], [24, "Restricciones del mercado", [["24.1", "Adaptación del diseño para la circulación en veredas y ciclovías del ámbito urbano (CABA/Argentina)."], ["24.2", "Estacionalidad: El cronograma de lanzamiento debe considerar el pico de demanda de rodados infantiles (Día del Niño/Navidad) para asegurar la penetración inicial en el mercado nacional."]]]];
+function reqDraw(q){ q=(q||'').trim().toLowerCase(); let n=0;
+ $('#req').innerHTML=RQ.map(([c,t,its])=>{ const f=its.filter(i=>!q||(i[0]+' '+i[1]+' '+t).toLowerCase().includes(q)); n+=f.length; if(!f.length) return '';
+  return `<div class="rq"><div class="rqh"><span class="num">${c}</span><b>${t}</b></div><ul>${f.map(i=>`<li><b class="num">${i[0]}</b><span>${i[1]}</span></li>`).join('')}</ul></div>`;}).join('');
+ $('#req-n').textContent=q? n+' resultado'+(n===1?'':'s') : '60 requisitos'; }
+$('#req-q').addEventListener('input',e=>reqDraw(e.target.value)); reqDraw('');
 
 /* ---------- Ficha ---------- */
 const SPEC=[['Usuario','Niños y niñas de 3 a 6 años'],['Configuraciones','Modo sentado (triciclo con pedales) y modo de pie'],['Medidas desplegado','965 × 410 × 607 mm'],['Medidas plegado','610 × 410 × 688 mm'],['Ruedas','3 × rodado 12'],['Transmisión','Cadena, corona y piñón estándar; tracción trasera'],['Cuadro','Caño cilíndrico de aluminio 6061, plegado y soldado TIG'],['Terminación','Pintura en polvo electrostática'],['Plegado','Bisagra de bicicleta plegable con traba'],['Peso ≈','8,1 – 9,9 kg'],['Carga de ensayo','45 kg estáticos']];
 $('#spec').innerHTML=SPEC.map(s=>`<tr><td style="width:34%">${s[0]}</td><td>${s[1]}</td></tr>`).join('');
 
-/* ---------- Estabilidad ---------- */
-const w=$('#w'); const uw=()=>{ const W=+w.value, tr=W-50, d=(tr/2)*(455/655), th=Math.atan(d/435), g=Math.tan(th), r=Math.pow(7/3.6,2)/(g*9.81);
-  $('#w-v').textContent=W+' mm'; $('#w-a').textContent=(th*180/Math.PI).toFixed(0)+'°'; $('#w-g').textContent=g.toFixed(2).replace('.',',')+' g'; $('#w-r').textContent=r.toFixed(1).replace('.',',')+' m';
-  $('#tilt-base').setAttribute('width',W/4); $('#tilt-base').setAttribute('x',150-W/8); $('#tilt').style.transform='rotate('+(-(th*180/Math.PI))+'deg)'; };
-w.addEventListener('input',uw); uw();
+
 
 /* ---------- Secuencia ---------- */
 const SEQ=[['Mover el asiento','Liberar la traba del riel y llevarlo a la posición de pie.',20],['Ajustar el manubrio','Aflojar la tuerca de arriba, subirlo y volver a apretar.',40],['Extender los pedales','Destrabar, extender y volver a trabar.',30],['Verificar trabas','Controlar que todo quede cerrado antes de usarlo.',15]];
